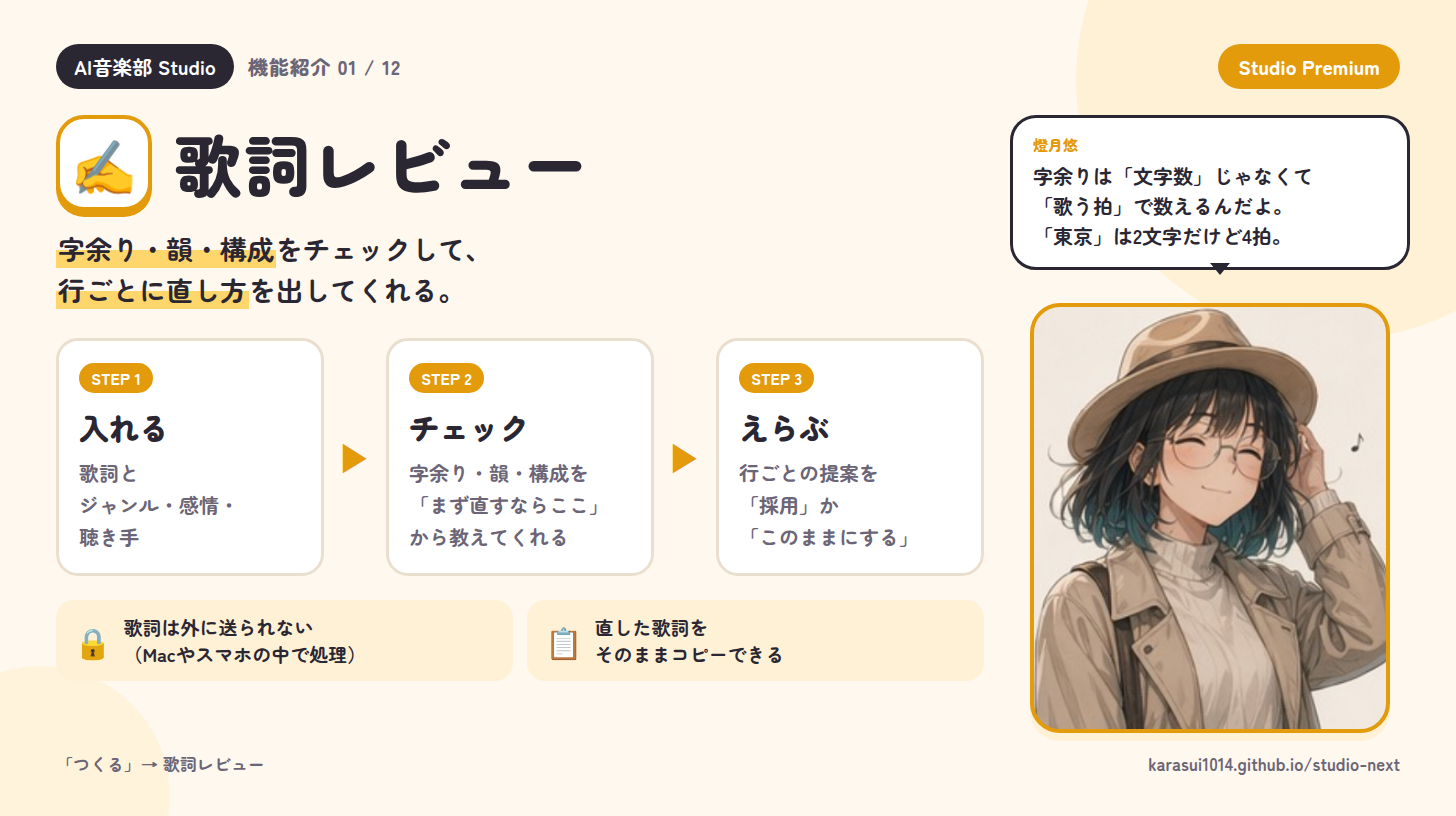
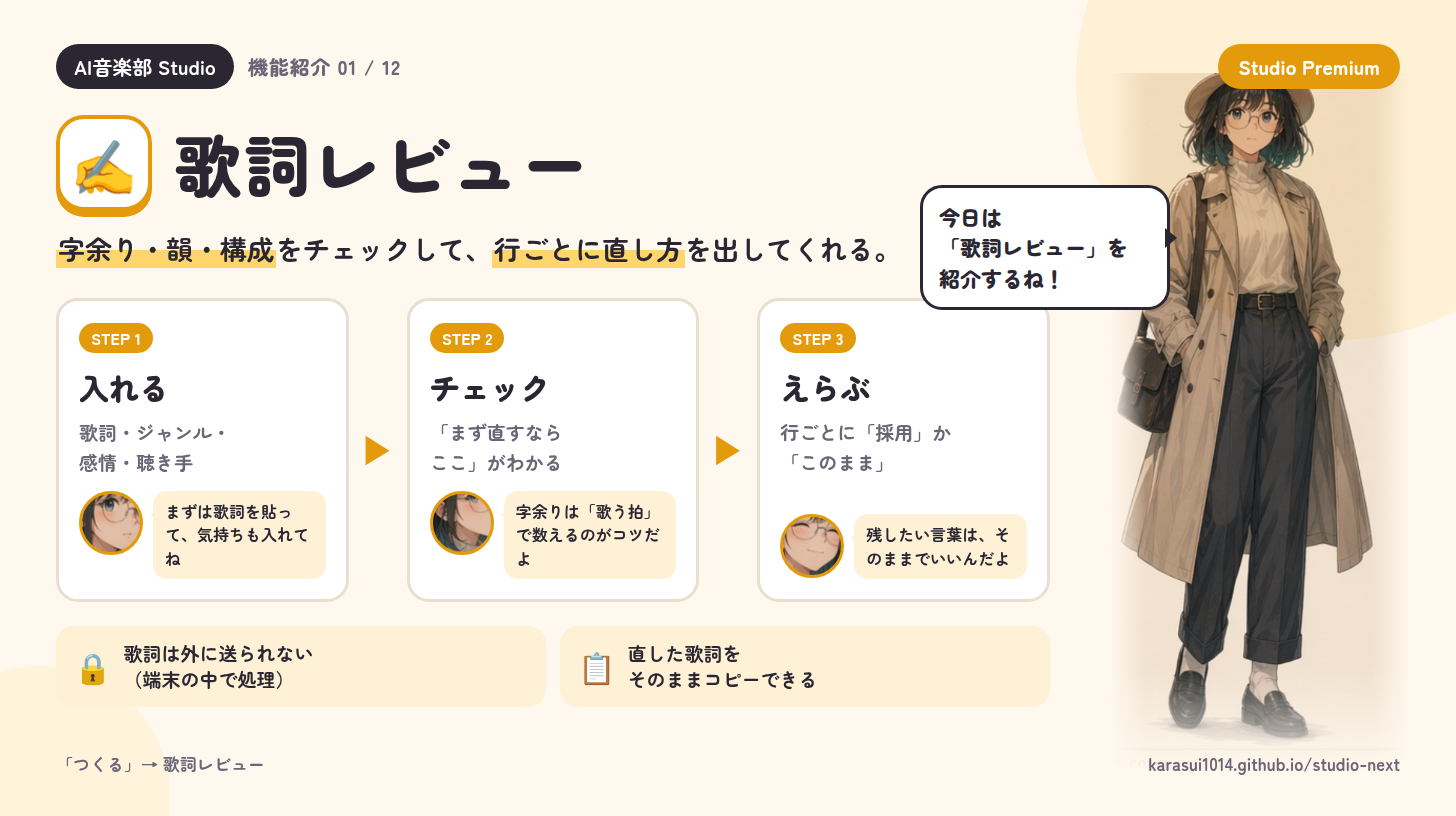
図解01を、燈月悠が案内するレイアウトに変更（絵は仮でキャラシートを使用）
Claude-Session: https://claude.ai/code/session_01FzvUVSZDxeeDEiwBLFjZee

diff --git a/studio-zukai/01-lyrics-review.html b/studio-zukai/01-lyrics-review.html
@@ -1,5 +1,27 @@
 <!doctype html>
-<html lang="ja"><head><meta charset="utf-8"><link rel="stylesheet" href="base.css"></head>
+<html lang="ja"><head><meta charset="utf-8"><link rel="stylesheet" href="base.css">
+<style>
+  /* 案内型レイアウト */
+  .main { gap: 0; }
+  .left { padding-right: 20px; }
+  .steps { gap: 12px; }
+  .step { display: flex; flex-direction: column; align-items: flex-start; }
+  .say { width: 100%; }
+  .top { position: relative; z-index: 3; }
+  .say { display: flex; align-items: flex-start; gap: 10px; margin-top: auto; padding-top: 14px; }
+  .face { flex: none; width: 64px; height: 64px; border-radius: 50%; border: 3px solid var(--plan); background: #fff url(chara-sheet.png) no-repeat; background-size: 1000px 666px; }
+  .face.f1 { background-size: 1300px 865px; background-position: -975px -110px; }
+  .face.f2 { background-size: 1300px 865px; background-position: -962px -342px; }
+  .face.f3 { background-size: 1300px 865px; background-position: -1164px -332px; }
+  .say p { position: relative; flex: 1; background: var(--plan-soft); color: var(--ink); border-radius: 14px; padding: 9px 12px; font-size: 16px; font-weight: 700; line-height: 1.45; margin: 0; }
+  .say p::before { content: ''; position: absolute; left: -9px; top: 18px; border: 6px solid transparent; border-right: 9px solid var(--plan-soft); }
+  .step p.desc { font-size: 19px; }
+
+  .guide { position: relative; width: 330px; }
+  .guide .big { position: absolute; right: -10px; bottom: -40px; width: 300px; height: 700px; background: url(chara-sheet.png) no-repeat; background-size: 1609px 1070px; background-position: -394px -80px; mix-blend-mode: multiply; -webkit-mask-image: linear-gradient(to right, transparent, #000 12%, #000 88%, transparent), linear-gradient(to bottom, #000 85%, transparent); -webkit-mask-composite: source-in; }
+  .guide .hello { position: absolute; left: -150px; top: 70px; width: 250px; background: #fff; border: 3px solid var(--ink); border-radius: 22px; padding: 14px 16px; font-weight: 900; font-size: 21px; line-height: 1.45; z-index: 2; }
+  .guide .hello::after { content: ""; position: absolute; right: -20px; top: 40px; border: 10px solid transparent; border-left: 12px solid var(--ink); }
+</style></head>
 <body class="plan-premium">
 <div class="blob a"></div><div class="blob b"></div>
 <div class="page">
@@ -15,37 +37,40 @@
         <div class="emoji">✍</div>
         <h1>歌詞レビュー</h1>
       </div>
-      <p class="catch"><mark>字余り・韻・構成</mark>をチェックして、<br><mark>行ごとに直し方</mark>を出してくれる。</p>
+      <p class="catch"><mark>字余り・韻・構成</mark>をチェックして、<mark>行ごとに直し方</mark>を出してくれる。</p>
 
       <div class="steps">
         <div class="step">
           <span class="n">STEP 1</span>
           <h3>入れる</h3>
-          <p>歌詞と<br>ジャンル・感情・<br>聴き手</p>
+          <p class="desc">歌詞・ジャンル・<br>感情・聴き手</p>
+          <div class="say"><div class="face f1"></div><p>まずは歌詞を貼って、気持ちも入れてね</p></div>
         </div>
         <div class="arrow">▶</div>
         <div class="step">
           <span class="n">STEP 2</span>
           <h3>チェック</h3>
-          <p>字余り・韻・構成を<br>「まず直すならここ」<br>から教えてくれる</p>
+          <p class="desc">「まず直すなら<br>ここ」がわかる</p>
+          <div class="say"><div class="face f2"></div><p>字余りは「歌う拍」で数えるのがコツだよ</p></div>
         </div>
         <div class="arrow">▶</div>
         <div class="step">
           <span class="n">STEP 3</span>
           <h3>えらぶ</h3>
-          <p>行ごとの提案を<br>「採用」か<br>「このままにする」</p>
+          <p class="desc">行ごとに「採用」か<br>「このまま」</p>
+          <div class="say"><div class="face f3"></div><p>残したい言葉は、そのままでいいんだよ</p></div>
         </div>
       </div>
 
       <div class="points">
-        <div class="point"><span class="i">🔒</span>歌詞は外に送られない<br>（Macやスマホの中で処理）</div>
+        <div class="point"><span class="i">🔒</span>歌詞は外に送られない<br>（端末の中で処理）</div>
         <div class="point"><span class="i">📋</span>直した歌詞を<br>そのままコピーできる</div>
       </div>
     </div>
 
-    <div class="right">
-      <div class="chara-img smile"></div>
-      <div class="bubble"><span class="who">燈月悠</span>字余りは「文字数」じゃなくて<br>「歌う拍」で数えるんだよ。<br>「東京」は2文字だけど4拍。</div>
+    <div class="guide">
+      <div class="hello">今日は<br>「歌詞レビュー」を<br>紹介するね！</div>
+      <div class="big"></div>
     </div>
   </div>
 
